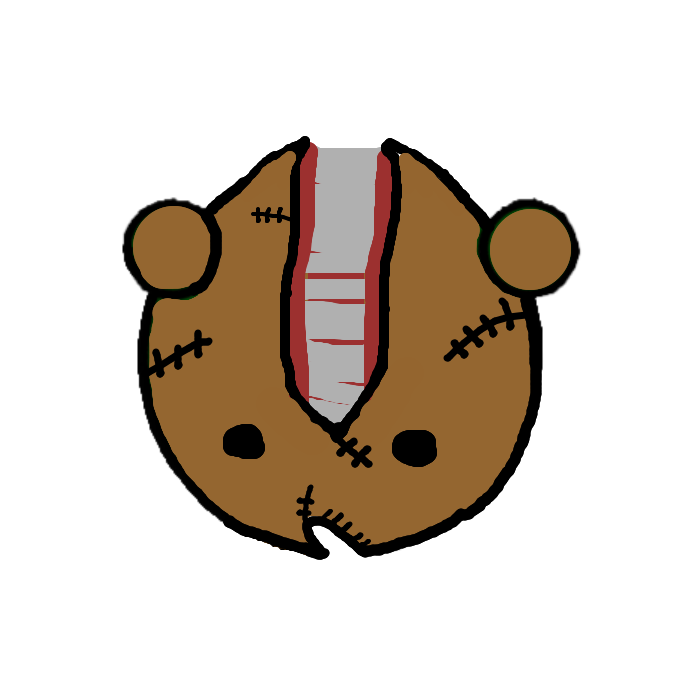
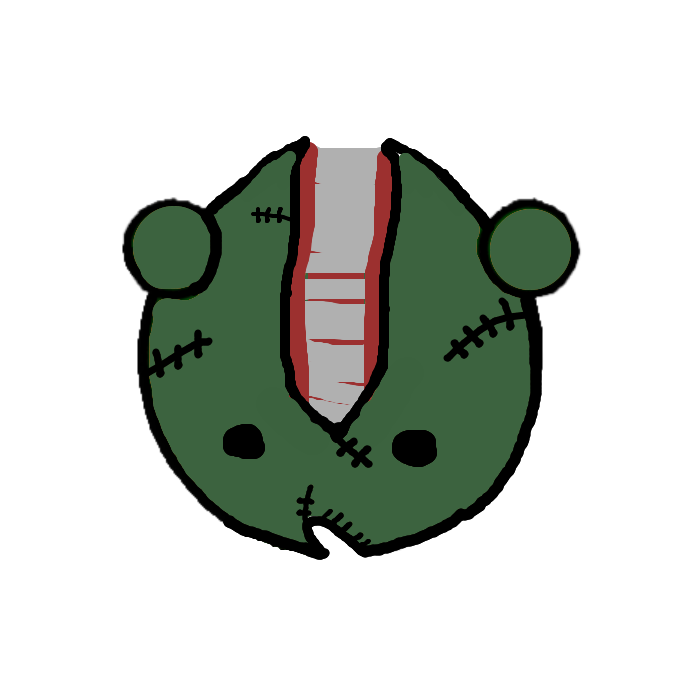
remove mushroom, addtional devourer

Changed region(s): [[0.18, 0.21, 0.84, 0.78]]

diff --git a/lib/monsters/jack_lantern.py b/lib/monsters/jack_lantern.py
@@ -20,26 +20,26 @@ class   JackLantern(DefaultMonster):
         cls.tommy_gun = cls.env.mod.weapons.TommyGun.build_class(cls.env)
         return cls
 
-    def frogified(self):
-        self.env.zombies.remove(self)
-        self.env.objects.append(self.frogified_lights(self.x, self.y))
-        self.weapon = self.tommy_gun()
-        self.mushroom = True
+#    def frogified(self):
+#        self.env.zombies.remove(self)
+#        self.env.objects.append(self.frogified_lights(self.x, self.y))
+#        self.weapon = self.tommy_gun()
+#        self.mushroom = True
 
     def __init__(self, env, x, y):
         self._father_init(x, y)
         self.hitbox = set_hitbox_monster(env, self)
 
         self.rapidity = randint(5, 8)
-        self.rapidity_buffer = self.rapidity
+#        self.rapidity_buffer = self.rapidity
 
         self.weapon = self.riffle()
         #self.weapon = self.tommy_gun()
 
         #witch
-        self.mushroom = False
-        self.became_vegetable = 60
-        self.env.zombies.append(self)
+#        self.mushroom = False
+#        self.became_vegetable = 60
+#        self.env.zombies.append(self)
 
     def _display_day(self, env, fitting):
         if not self.lives:
@@ -86,12 +86,12 @@ class   JackLantern(DefaultMonster):
             if self._quit():
                 return
 
-        if self.mushroom:
-            self.weapon = self.riffle()
-            self.rapidity = self.rapidity_buffer
-            self.mushroom = False
-        else:
-            self.env.zombies.remove(self)
+#        if self.mushroom:
+#            self.weapon = self.riffle()
+#            self.rapidity = self.rapidity_buffer
+#            self.mushroom = False
+#        else:
+#            self.env.zombies.remove(self)
 
         while self.degeneration:
             if self.env.walking_dead:
@@ -100,11 +100,11 @@ class   JackLantern(DefaultMonster):
                 return
 
     def update(self):
-        if self.rapidity > 1 and self.mushroom:
-            self.became_vegetable -= 1
-            if not self.became_vegetable:
-                self.rapidity -= 1
-                self.became_vegetable = 60
+#        if self.rapidity > 1 and self.mushroom:
+#            self.became_vegetable -= 1
+#            if not self.became_vegetable:
+#                self.rapidity -= 1
+#                self.became_vegetable = 60
         if self.invulnerable:
             self.invulnerable -= 1
         if self.injured:

diff --git a/lib/waves/configuration.py b/lib/waves/configuration.py
@@ -7,7 +7,7 @@ class   AdditionalSpawn:
     def random(self, nb):
         return randint(nb, nb * 3)
 
-    def __init__(self, dark_knight, fly=None):
+    def __init__(self, dark_knight, fly=None, devourer=None):
         self.dark_min, self.dark_max, self.dark_time = dark_knight
         self.dark_next = self.random(self.dark_time)
         if fly is not None:
@@ -15,6 +15,12 @@ class   AdditionalSpawn:
             self.fly_next = self.random(self.fly_time)
         else:
             self.fly_next = -1
+
+        if devourer is not None:
+            self.devourer_min, self.devourer_max, self.devourer_time = devourer
+            self.devourer_next = self.random(self.devourer_time)
+        else:
+            self.devourer_next = -1
 
     def process(self, env):
         if not self.dark_next:
@@ -29,6 +35,13 @@ class   AdditionalSpawn:
                 self.fly_next = self.random(self.fly_time)
             else:
                 self.fly_next -= 1
+
+        if self.devourer_next >= 0:
+            if not self.devourer_next:
+                env.mod.tools.spawn(env, env.mod.monsters.Devourer, randint(self.devourer_min, self.devourer_max))
+                self.devourer_next = self.random(self.devourer_time)
+            else:
+                self.devourer_next -= 1
 
 class   DefaultWave:
     def random(self, i):
@@ -53,7 +66,7 @@ class   Wave1(DefaultWave):
         self.nb = [3, 1]
         self.next = [0, self.random(1)]
         #self.add = AdditionalSpawn((0, 1, 799), (0, 1, 899))
-        self.add = AdditionalSpawn((0, 1, 110), (0, 1, 899))
+        self.add = AdditionalSpawn((0, 1, 220), (0, 1, 899), (0, 1, 99))
         #gargamel test
         env.mod.tools.spawn_boss(env, env.mod.monsters.Gargamel)
 

diff --git a/lib/players/score.py b/lib/players/score.py
@@ -14,7 +14,7 @@ class   Score:
         self.img_total = player.img[0]
         self.list = ['zombie', 'cyclops', 'jack_lantern', 'daemon', 'minion', 'necromancer', 'harpy', 'ent', 'nyx', 'tentacle', 'piranha', 'kraken', 'dark_knight', 'villager', 'garou', 'alchemist', 'fly', 'witch', 'devourer', 'graeae', 'gargamel_score', 'vampire']
         self.kills = [0, 0, 0, 0, 0, 0, 0, 0, 0, 0, 0, 0, 0, 0, 0, 0, 0, 0, 0, 0, 0, 0]
-        self.values = [1, 4, 2.5, 0.135, 2, 7.5, 3, 0.09, 0.125, 0.5, 3, 0.12, 11, 1.5, 2.5, 4, 3, 2, 0.045, 0.135, 0.13, 4]
+        self.values = [1, 4, 2.5, 0.135, 2, 7.5, 3, 0.09, 0.125, 0.5, 3, 0.12, 11, 1.5, 2.5, 4, 3, 2, 0.05, 0.135, 0.13, 4]
         self.img = []
         for name in self.list:
             self.load_img(env, name, dimensions)

diff --git a/lib/monsters/vampire.py b/lib/monsters/vampire.py
@@ -11,10 +11,10 @@ from . import set_hitbox_monster
 
 class Target(object):
     def __init__(self, env, dimensions):
-        self.x = randint(0, env.width)
-        self.y = randint(0, env.height)
         self.dimensions = dimensions
         self.half = dimensions // 2
+        self.x = randint(0, env.width - self.half)
+        self.y = randint(0, env.height - self.half)
         self.hitbox = set_hitbox_monster(env, self)
 
 

diff --git a/lib/bullets/fear.py b/lib/bullets/fear.py
@@ -5,7 +5,7 @@ from . import set_hitbox_bullet
 from . import DefaultBullet
 
 class   Fear(DefaultBullet):
-    lifetime = 6
+    lifetime = 8
     attack = 2
     name = "fear"
 
